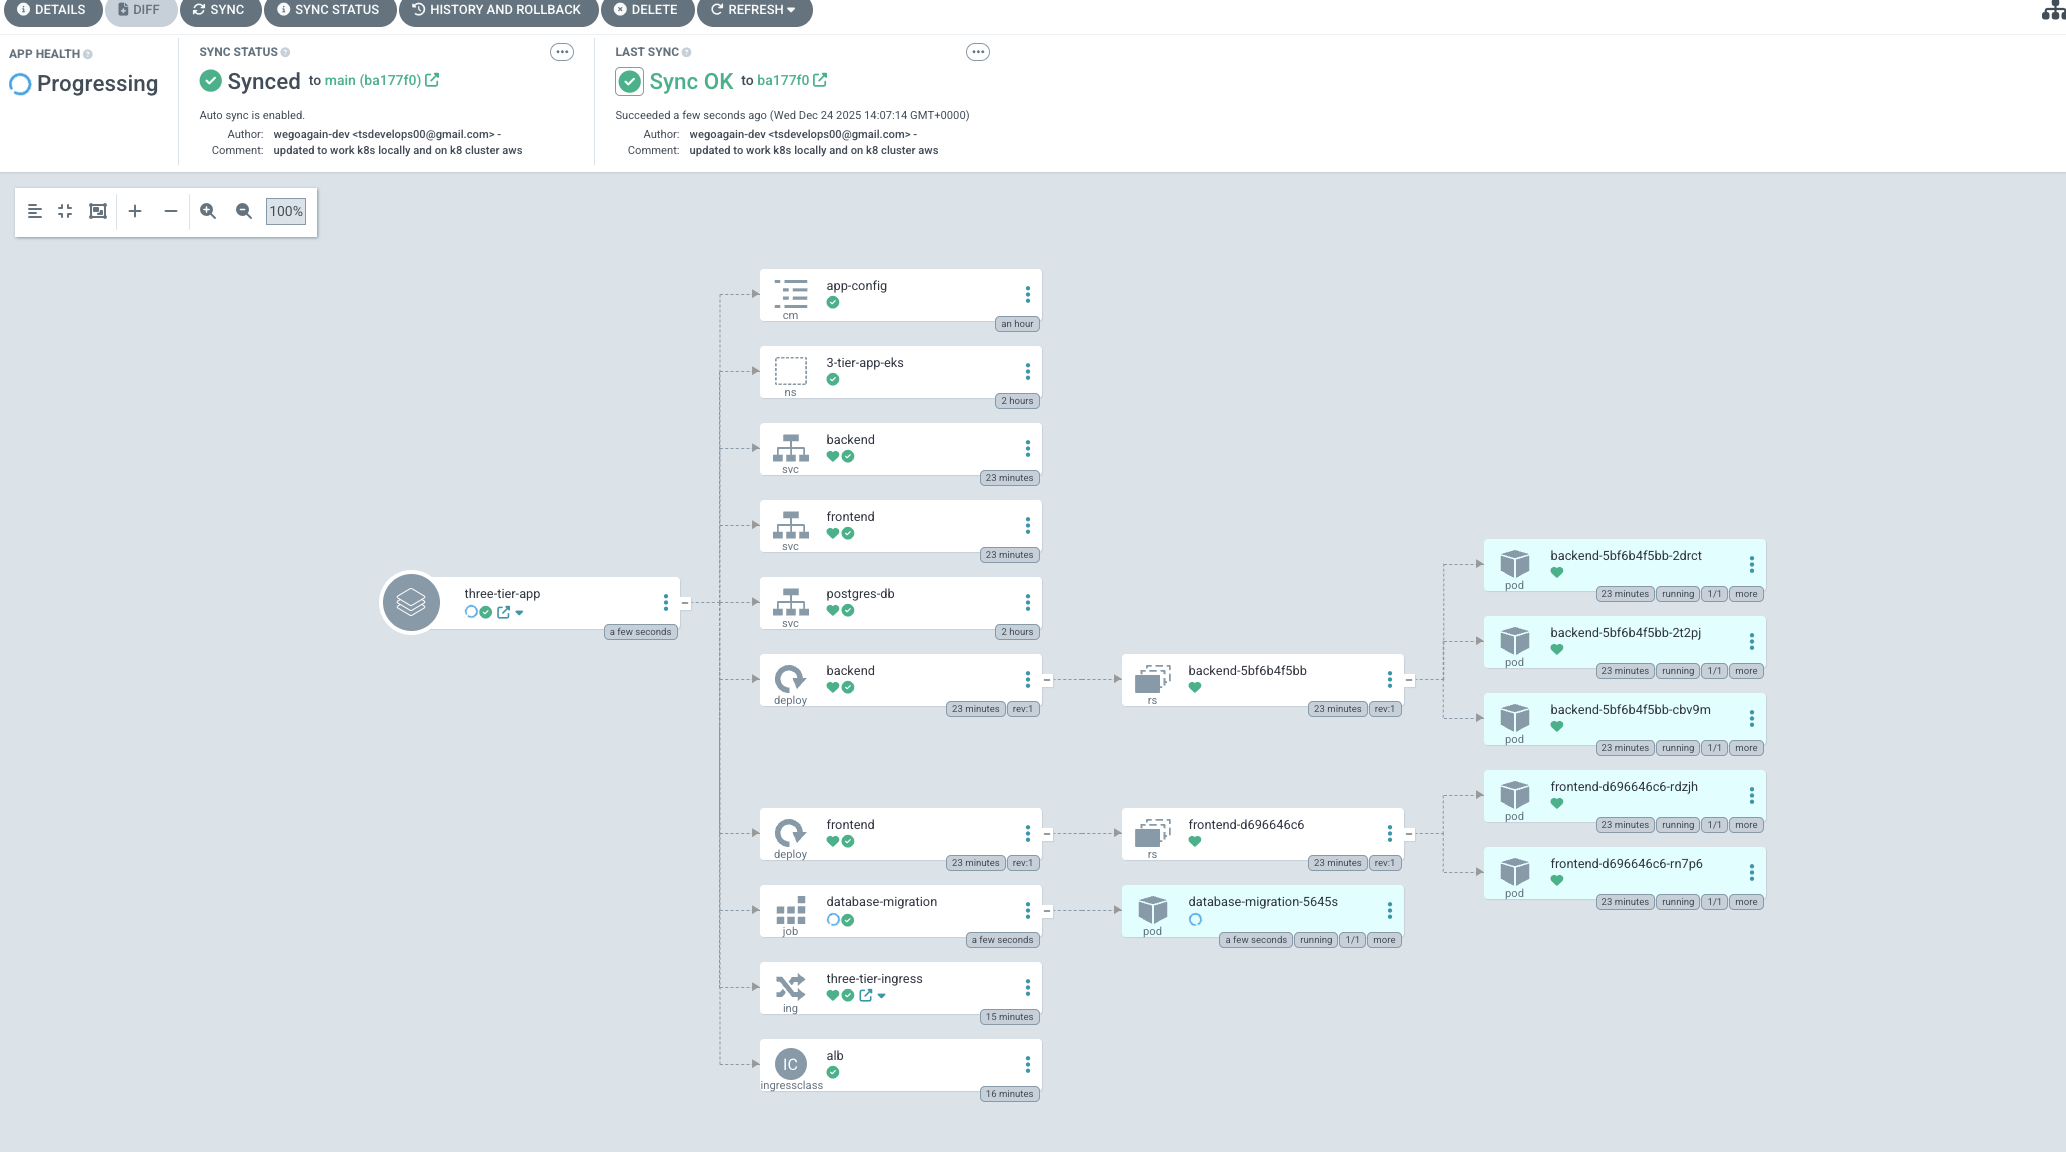
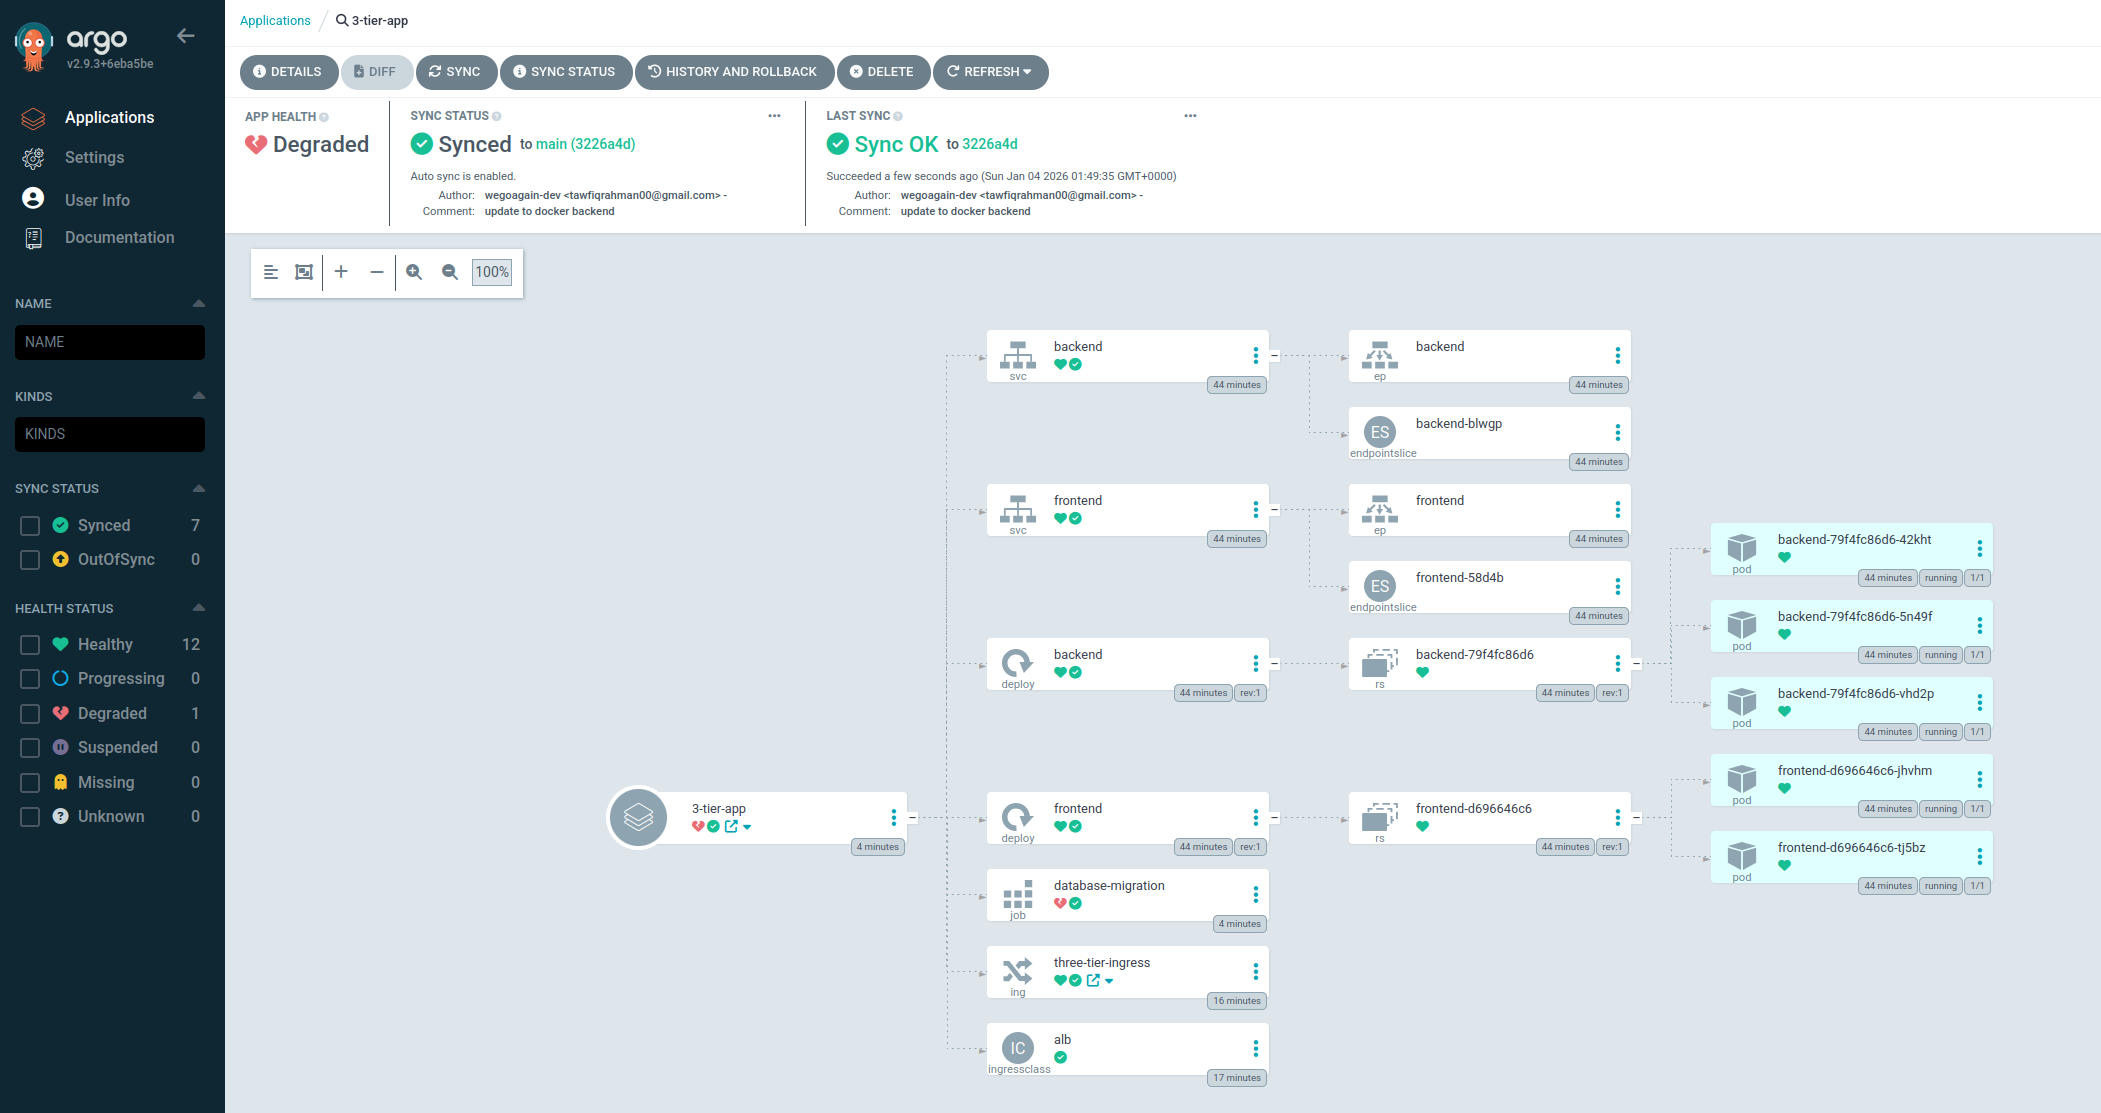
added monitoring and alb to terraform

diff --git a/README.md b/README.md
@@ -75,9 +75,9 @@ For the full production deployment on AWS, check out the detailed guide [here](h
    kubectl -n argocd get secret argocd-initial-admin-secret -o jsonpath="{.data.password}" | base64 -d; echo
    
    # Port-forward
-   kubectl port-forward svc/argocd-server -n argocd 8080:443
+   kubectl port-forward svc/argocd-server -n argocd 9000:443
    ```
-   Open [https://localhost:8080](https://localhost:8080)
+   Open [https://localhost:9000](https://localhost:9000)
 
    **To Deploy Changes:**
    Just `git push`! ArgoCD watches the repo and updates the cluster automatically.
@@ -174,5 +174,55 @@ You can also run the full Kubernetes stack locally using `kind`.
 - Verify database is ready: `kubectl get pods -n 3-tier-app-eks -l app=postgres`
 - Check secrets: `kubectl get secret database-secret -n 3-tier-app-eks -o yaml`
 
+## Cleanup & Teardown
+
+> **⚠ IMPORTANT**: Follow these steps to avoid unexpected AWS charges.
+
+### AWS Deployment Cleanup
+
+**Step 1: Delete Ingress (triggers ALB cleanup)**
+```bash
+kubectl delete ingress three-tier-ingress -n 3-tier-app-eks
+```
+Wait 1-2 minutes for the Load Balancer Controller to clean up the ALB.
+
+**Step 2: Destroy Terraform Resources**
+```bash
+cd terraform
+terraform destroy -auto-approve
+```
+
+**Step 3: Delete EKS Cluster**
+```bash
+eksctl delete cluster three-tier --region eu-west-2
+```
+
+**If ALB won't delete:**
+```bash
+# Find and delete ALB
+aws elbv2 describe-load-balancers --region eu-west-2 \
+  --query 'LoadBalancers[?contains(LoadBalancerName, `k8s-3tierapp`)].LoadBalancerArn' \
+  --output text | xargs -I {} aws elbv2 delete-load-balancer --load-balancer-arn {} --region eu-west-2
+
+# Delete target groups (after 10 seconds)
+aws elbv2 describe-target-groups --region eu-west-2 \
+  --query 'TargetGroups[?contains(TargetGroupName, `k8s-3tierapp`)].TargetGroupArn' \
+  --output text | xargs -I {} aws elbv2 delete-target-group --target-group-arn {} --region eu-west-2
+```
+
+### Local Cleanup
+
+**Docker Compose:**
+```bash
+docker compose down -v  # -v removes volumes
+```
+
+**Kind:**
+```bash
+kind delete cluster --name devops-lab
+```
+
 ## What's Coming Next
 - Route 53 for custom domain management
+- Network Policies for enhanced security
+
